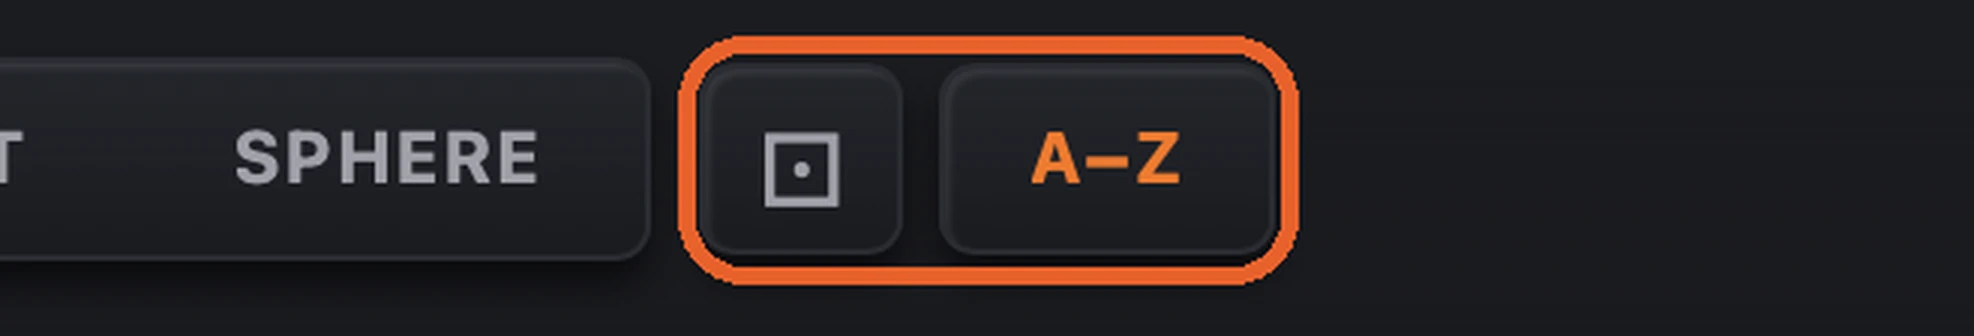
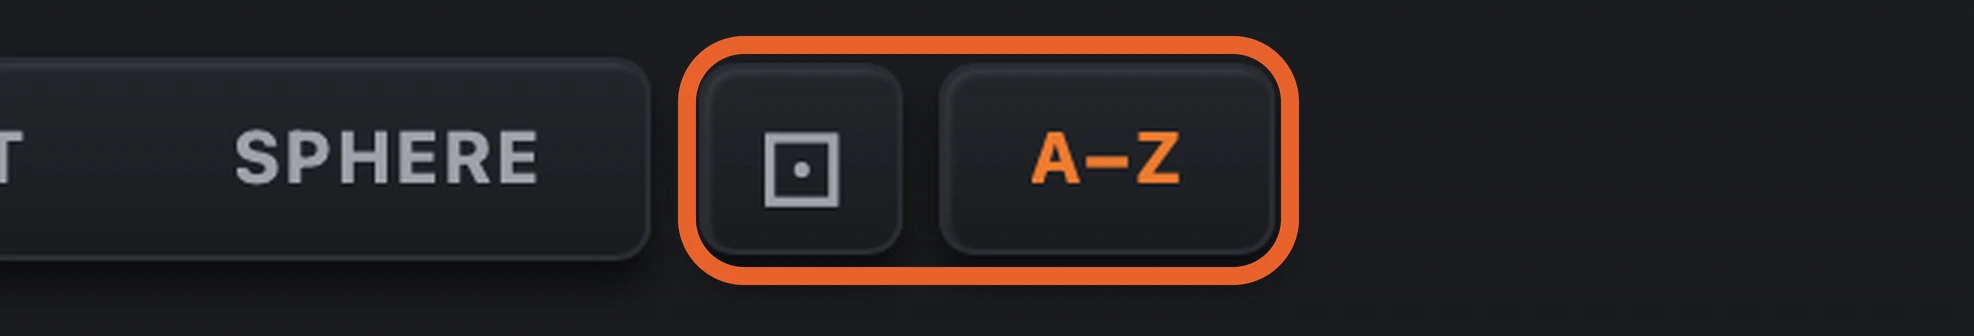
Search: add typed-text shot with clear button, smoother rings on header shots
Claude-Session: https://claude.ai/code/session_01CH3L65XQEXCz6Uu3iFQYpi

diff --git a/public/omni/index.html b/public/omni/index.html
@@ -79,7 +79,7 @@ nav .wrap{display:grid;grid-template-columns:1fr auto 1fr;gap:16px}nav .wrap>.li
 <div class="row"><div class="shots"><img src="page/r01_count.webp" alt="The module count" style="max-width:100%"></div><div class="txt"><div class="lab">01</div><h3>The module count</h3><p>Under the title, it shows how many modules match what you are looking at, out of the whole collection. It updates as you search and filter.</p></div></div>
 <div class="row"><div class="shots"><img src="page/r02_views.webp" alt="Grid, List and Sphere" style="max-width:100%"></div><div class="txt"><div class="lab">02</div><h3>Grid, List and Sphere</h3><p>Grid shows tiles with artwork. List shows rows sorted by plugin or company. Sphere is an endless drifting field for browsing rather than searching.</p></div></div>
 <div class="row"><div class="shots"><img src="page/r03_dice_az.webp" alt="Dice and A–Z" style="max-width:100%"><img src="page/r03_dice_sphere.webp" alt="Dice and A–Z" style="max-width:100%"></div><div class="txt"><div class="lab">03</div><h3>Dice and A–Z</h3><p>The dice shuffles the order. In Sphere it reshuffles the field, and the ∞ button switches between an endless field and a single one, with each module once. In Grid and List, once a company or category is chosen, A–Z puts the tiles back in order.</p></div></div>
-<div class="row"><div class="shots"><img src="page/r04_search.webp" alt="Search" style="max-width:100%"></div><div class="txt"><div class="lab">04</div><h3>Search and Logic Search</h3><p>Type to filter modules by name. The dot at the end of the field opens Logic’s own plugin search.</p></div></div>
+<div class="row"><div class="shots"><img src="page/r04_search.webp" alt="Search" style="max-width:100%"><img src="page/r04_search_typed.webp" alt="Search with text typed, showing the clear button" style="max-width:100%"></div><div class="txt"><div class="lab">04</div><h3>Search and Logic Search</h3><p>Type to filter modules by name. A small × appears at the end of the field to clear what you typed. The dot at the end opens Logic’s own plugin search.</p></div></div>
 <div class="row"><div class="shots"><img src="page/mag_toolbar.webp" alt="The Magnify button, switched on" style="max-width:100%"><img src="page/mag_popup.webp" alt="A module enlarged by Magnify" style="max-width:100%"></div><div class="txt"><div class="lab">05</div><h3>Magnify</h3><p>Switch it on and hover any module to see its artwork enlarged, with its name and company. It is switched off while you batch-select.</p></div></div>
 <div class="row"><div class="shots"><img src="page/batch_toolbar.webp" alt="The Batch button" style="max-width:100%"><img src="page/batch_bar.webp" alt="The batch bar with two modules selected" style="max-width:100%"></div><div class="txt"><div class="lab">06</div><h3>Batch</h3><p>Click Batch, then click modules to select them. A bar opens at the bottom with Select all, favourite or unfavourite, hide or unhide, owned or not owned, colour tags, export, delete and Add to category. Delete removes your own additions. Done closes the bar.</p></div></div>
 <div class="row"><div class="shots"><img src="page/drawer_add.webp" alt="The Add drawer" style="max-width:440px"></div><div class="txt"><div class="lab">07</div><h3>+ Add</h3><p>Add a module by hand. Give it a name, then the exact name Logic uses in its plugin menu, so it can be found. Choose the manufacturer and categories, and mark it Owned or Hidden if you want to. Then add a colour tag, drop in artwork and press Add Module.</p><p><strong>If it is an instrument, you must click the large Instrument button under the categories. That triggers the Instrument macro, which creates the channel strip first.</strong></p></div></div>

diff --git a/public/pa-x7k2q9m4w3/index.html b/public/pa-x7k2q9m4w3/index.html
@@ -81,7 +81,7 @@ nav .wrap{display:flex}
 <div class="row"><div class="shots"><img src="page/r01_count.webp" alt="The module count" style="max-width:100%"></div><div class="txt"><div class="lab">01</div><h3>The module count</h3><p>Under the title, it shows how many modules match what you are looking at, out of the whole collection. It updates as you search and filter.</p></div></div>
 <div class="row"><div class="shots"><img src="page/r02_views.webp" alt="Grid, List and Sphere" style="max-width:100%"></div><div class="txt"><div class="lab">02</div><h3>Grid, List and Sphere</h3><p>Grid shows tiles with artwork. List shows rows sorted by plugin or company. Sphere is an endless drifting field for browsing rather than searching.</p></div></div>
 <div class="row"><div class="shots"><img src="page/r03_dice_az.webp" alt="Dice and A–Z" style="max-width:100%"><img src="page/r03_dice_sphere.webp" alt="Dice and A–Z" style="max-width:100%"></div><div class="txt"><div class="lab">03</div><h3>Dice and A–Z</h3><p>The dice shuffles the order. In Sphere it reshuffles the field, and the ∞ button switches between an endless field and a single one, with each module once. In Grid and List, once a company or category is chosen, A–Z puts the tiles back in order.</p></div></div>
-<div class="row"><div class="shots"><img src="page/r04_search.webp" alt="Search" style="max-width:100%"></div><div class="txt"><div class="lab">04</div><h3>Search and Logic Search</h3><p>Type to filter modules by name. The dot at the end of the field opens Logic’s own plugin search.</p></div></div>
+<div class="row"><div class="shots"><img src="page/r04_search.webp" alt="Search" style="max-width:100%"><img src="page/r04_search_typed.webp" alt="Search with text typed, showing the clear button" style="max-width:100%"></div><div class="txt"><div class="lab">04</div><h3>Search and Logic Search</h3><p>Type to filter modules by name. A small × appears at the end of the field to clear what you typed. The dot at the end opens Logic’s own plugin search.</p></div></div>
 <div class="row"><div class="shots"><img src="page/mag_toolbar.webp" alt="The Magnify button, switched on" style="max-width:100%"><img src="page/mag_popup.webp" alt="A module enlarged by Magnify" style="max-width:100%"></div><div class="txt"><div class="lab">05</div><h3>Magnify</h3><p>Switch it on and hover any module to see its artwork enlarged, with its name and company. It is switched off while you batch-select.</p></div></div>
 <div class="row"><div class="shots"><img src="page/batch_toolbar.webp" alt="The Batch button" style="max-width:100%"><img src="page/batch_bar.webp" alt="The batch bar with two modules selected" style="max-width:100%"></div><div class="txt"><div class="lab">06</div><h3>Batch</h3><p>Click Batch, then click modules to select them. A bar opens at the bottom with Select all, favourite or unfavourite, hide or unhide, owned or not owned, colour tags, export, delete and Add to category. Delete removes your own additions. Done closes the bar.</p></div></div>
 <div class="row"><div class="shots"><img src="page/drawer_add.webp" alt="The Add drawer" style="max-width:440px"></div><div class="txt"><div class="lab">07</div><h3>+ Add</h3><p>Add a module by hand. Give it a name, then the exact name Logic uses in its plugin menu, so it can be found. Choose the manufacturer and categories, and mark it Owned or Hidden if you want to. Then add a colour tag, drop in artwork and press Add Module.</p><p><strong>If it is an instrument, you must click the large Instrument button under the categories. That triggers the Instrument macro, which creates the channel strip first.</strong></p></div></div>
